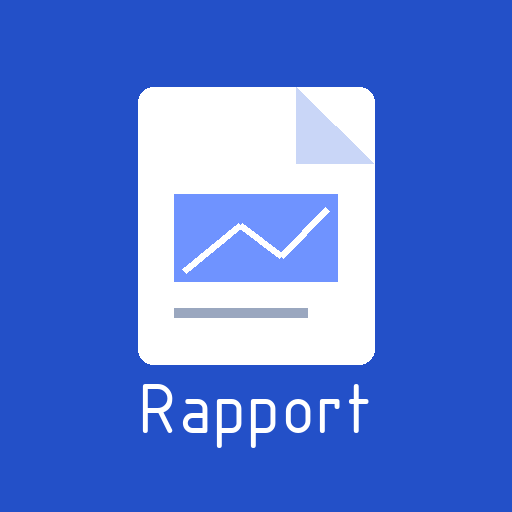
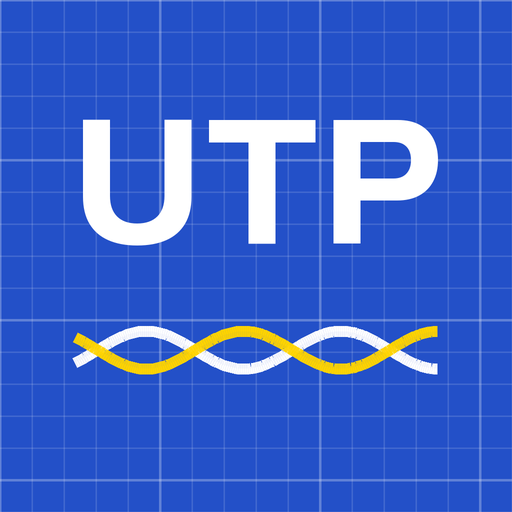
v18 : nouveau nom UTP – Useful Tools Pack et accueil en onglets
- Nom de l'app : UTP (Useful Tools Pack), nouvelle icône et logo
- Accueil en onglets « Rapports » / « Plans quadrillés » avec compteurs
- Recherche dans les plans quadrillés, dernier onglet mémorisé
- README mis à jour

Claude-Session: https://claude.ai/code/session_01TLJQrEXy8WSUsikJibTLZG

diff --git a/index.html b/index.html
@@ -1,11 +1,11 @@
 <meta charset="utf-8">
 <meta name="viewport" content="width=device-width, initial-scale=1, viewport-fit=cover">
-<title>Rapport technique</title>
+<title>UTP – Useful Tools Pack</title>
 <meta name="claude:viewport-fit-sides" content="cover">
 <meta name="apple-mobile-web-app-capable" content="yes">
 <meta name="mobile-web-app-capable" content="yes">
 <meta name="apple-mobile-web-app-status-bar-style" content="default">
-<meta name="apple-mobile-web-app-title" content="Rapport technique">
+<meta name="apple-mobile-web-app-title" content="UTP">
 <meta name="theme-color" content="#2350c8">
 <link rel="manifest" href="manifest.webmanifest">
 <link rel="apple-touch-icon" href="icon-180.png">
@@ -49,6 +49,8 @@ button{cursor:pointer}
 .bar{position:sticky;top:env(safe-area-inset-top,0px);z-index:5;background:var(--surface);border-bottom:1px solid var(--line)}
 .bar-in,.wrap{padding-left:max(16px,env(safe-area-inset-left,0px));padding-right:max(16px,env(safe-area-inset-right,0px))}
 .bar-in{display:flex;align-items:center;gap:10px;padding-block:10px;max-width:1180px;margin:0 auto;flex-wrap:wrap}
+.brand-w{display:flex;align-items:center;gap:12px;min-width:0;flex:1}
+.logo{width:42px;height:42px;flex:none;display:block}
 .brand{display:flex;flex-direction:column;min-width:0;flex:1}
 .brand b{font-family:var(--f-display);font-weight:700;font-size:23px;line-height:1.05;letter-spacing:-.015em}
 .brand span{font-family:var(--f-mono);font-size:11px;color:var(--muted);letter-spacing:.06em;text-transform:uppercase;margin-top:3px}
@@ -241,7 +243,11 @@ a.btn{color:var(--ink)}
 #qTools{flex-wrap:nowrap}
 .qval{font-family:var(--f-mono);font-size:14px;min-width:30px;text-align:center}
 .ed-opts .qn{min-width:38px;font-size:18px;padding:0 8px}
-.qsec{margin-top:34px}
+.tabs{display:flex;gap:4px;padding:4px;background:var(--soft);border-radius:12px;width:max-content;max-width:100%;overflow-x:auto;margin-bottom:-8px}
+.tabs button{display:flex;align-items:center;gap:8px;min-height:44px;padding:0 18px;border:0;border-radius:9px;background:transparent;color:var(--muted);font-family:var(--f-display);font-weight:600;font-size:16px;white-space:nowrap}
+.tabs button[aria-selected="true"]{background:var(--surface);color:var(--ink);box-shadow:0 1px 3px rgba(0,0,0,.12)}
+.tabs .cnt{font-family:var(--f-mono);font-size:12px;font-weight:500;min-width:22px;padding:1px 7px;border-radius:20px;background:var(--line);color:var(--ink)}
+.tabs .cnt:empty{display:none}
 .dlg-in{width:100%;margin-top:6px;font:inherit;font-size:16px;padding:10px 12px;border:1px solid var(--line);border-radius:10px;box-sizing:border-box}
 #cv{touch-action:none;display:block;box-shadow:0 0 0 1px var(--ed-line);background:#000}
 .tbox{position:absolute;z-index:3;display:flex;flex-direction:column;gap:6px;background:var(--ed-panel);border:1px solid var(--ed-line);border-radius:10px;padding:8px;box-shadow:0 8px 24px rgba(0,0,0,.5);width:min(340px,80vw)}
@@ -282,7 +288,7 @@ input[type=search]{width:100%;min-height:44px;border:1px solid var(--line);borde
 </style>
 
 <header class="bar"><div class="bar-in">
-  <div class="brand"><b>Rapport technique</b><span>IT-FCS-DO · Project Drawing</span></div>
+  <div class="brand-w"><svg class="logo" viewBox="0 0 40 40" aria-hidden="true"><rect width="40" height="40" rx="9" fill="#2350c8"/><path d="M0 10h40M0 20h40M0 30h40M10 0v40M20 0v40M30 0v40" stroke="#fff" stroke-opacity=".18" stroke-width="1"/><path d="M6.0 20.0 L6.5 21.1 L7.0 22.2 L7.5 23.1 L8.0 23.9 L8.5 24.5 L9.0 24.9 L9.5 25.0 L10.0 24.9 L10.5 24.5 L11.0 23.9 L11.5 23.1 L12.0 22.2 L12.5 21.1 L13.0 20.0 L13.5 18.9 L14.0 17.8 L14.5 16.9 L15.0 16.1 L15.5 15.5 L16.0 15.1 L16.5 15.0 L17.0 15.1 L17.5 15.5 L18.0 16.1 L18.5 16.9 L19.0 17.8 L19.5 18.9 L20.0 20.0 L20.5 21.1 L21.0 22.2 L21.5 23.1 L22.0 23.9 L22.5 24.5 L23.0 24.9 L23.5 25.0 L24.0 24.9 L24.5 24.5 L25.0 23.9 L25.5 23.1 L26.0 22.2 L26.5 21.1 L27.0 20.0 L27.5 18.9 L28.0 17.8 L28.5 16.9 L29.0 16.1 L29.5 15.5 L30.0 15.1 L30.5 15.0 L31.0 15.1 L31.5 15.5 L32.0 16.1 L32.5 16.9 L33.0 17.8 L33.5 18.9 L34.0 20.0" fill="none" stroke="#fff" stroke-width="3" stroke-linecap="round" stroke-linejoin="round"/><path d="M6.0 20.0 L6.5 18.9 L7.0 17.8 L7.5 16.9 L8.0 16.1 L8.5 15.5 L9.0 15.1 L9.5 15.0 L10.0 15.1 L10.5 15.5 L11.0 16.1 L11.5 16.9 L12.0 17.8 L12.5 18.9 L13.0 20.0 L13.5 21.1 L14.0 22.2 L14.5 23.1 L15.0 23.9 L15.5 24.5 L16.0 24.9 L16.5 25.0 L17.0 24.9 L17.5 24.5 L18.0 23.9 L18.5 23.1 L19.0 22.2 L19.5 21.1 L20.0 20.0 L20.5 18.9 L21.0 17.8 L21.5 16.9 L22.0 16.1 L22.5 15.5 L23.0 15.1 L23.5 15.0 L24.0 15.1 L24.5 15.5 L25.0 16.1 L25.5 16.9 L26.0 17.8 L26.5 18.9 L27.0 20.0 L27.5 21.1 L28.0 22.2 L28.5 23.1 L29.0 23.9 L29.5 24.5 L30.0 24.9 L30.5 25.0 L31.0 24.9 L31.5 24.5 L32.0 23.9 L32.5 23.1 L33.0 22.2 L33.5 21.1 L34.0 20.0" fill="none" stroke="#ffd400" stroke-width="3" stroke-linecap="round" stroke-linejoin="round"/></svg><div class="brand"><b>UTP</b><span>Useful Tools Pack · IT-FCS-DO</span></div></div>
   <button class="btn rep-only" id="backBtn" type="button" hidden>
     <svg viewBox="0 0 24 24" fill="none" stroke="currentColor" stroke-width="2" stroke-linecap="round" stroke-linejoin="round"><path d="m15 18-6-6 6-6"/></svg>
     <span>Mes rapports</span>
@@ -306,7 +312,11 @@ input[type=search]{width:100%;min-height:44px;border:1px solid var(--line);borde
 </div></header>
 
 <main class="wrap" id="home">
-  <section>
+  <div class="tabs" role="tablist" aria-label="Outils">
+    <button type="button" role="tab" data-tab="rep">Rapports<span class="cnt" id="cntRep"></span></button>
+    <button type="button" role="tab" data-tab="plan">Plans quadrillés<span class="cnt" id="cntPlan"></span></button>
+  </div>
+  <section id="tabRep">
     <div class="sec-h">
       <div><h2>Mes rapports</h2><p class="sub" id="storeInfo">Enregistrés sur cet appareil.</p></div>
       <div class="home-acts">
@@ -322,7 +332,7 @@ input[type=search]{width:100%;min-height:44px;border:1px solid var(--line);borde
     <div class="rep-list" id="repList"></div>
     <p class="empty" id="repEmpty" hidden>Aucun rapport pour l'instant. Crée ton premier rapport ou importe un fichier .rapport.</p>
   </section>
-  <section class="qsec">
+  <section id="tabPlan" hidden>
     <div class="sec-h">
       <div><h2>Plans quadrillés</h2></div>
       <div class="home-acts">
@@ -330,6 +340,7 @@ input[type=search]{width:100%;min-height:44px;border:1px solid var(--line);borde
         <input type="file" id="qIn" class="hidden-in" accept="application/pdf,image/*">
       </div>
     </div>
+    <input type="search" id="qq" placeholder="Rechercher un plan" aria-label="Rechercher un plan" style="margin-bottom:14px">
     <div class="rep-list" id="qList"></div>
     <p class="empty" id="qEmpty" hidden>Aucun plan quadrillé pour l'instant.</p>
   </section>
@@ -1264,7 +1275,7 @@ async function makeThumb(r){const p=firstImg(r);if(!p)return null;try{return awa
 async function renderHome(){
   const q=$('q').value.trim().toLowerCase();const list=$('repList');list.innerHTML='';
   const items=INDEX.slice().sort((a,b)=>(b.updated||0)-(a.updated||0)).filter(m=>!q||(m.titre+' '+m.bat).toLowerCase().includes(q));
-  $('repEmpty').hidden=INDEX.length>0;
+  $('repEmpty').hidden=INDEX.length>0;$('cntRep').textContent=INDEX.length||'';
   items.forEach(m=>{const el=document.createElement('article');el.className='rep';
     const st=!m.exported?['no','Jamais exporté']:(m.updated>m.exported+1500?['warn','Modifié depuis l\'export du '+fmtStamp(m.exported)]:['ok','Exporté le '+fmtStamp(m.exported)]);
     el.innerHTML='<button class="rep-th" type="button" aria-label="Ouvrir">'+(m.thumb?'<img alt="">':'<span>Pas d\'image</span>')+'</button>'+
@@ -1620,8 +1631,8 @@ $('qPdf').onclick=async()=>{if(!qReady())return;if(!window.jspdf){toast("Le modu
   $('qPdf').disabled=true;try{const doc=await qBuildPdf();await qSave(true);await saveFile(doc.output('blob'),(safeName(Q.name)||'Plan')+'_quadrille.pdf','application/pdf')}
   catch(e){console.error(e);toast('La génération du PDF a échoué.',5000)}finally{$('qPdf').disabled=false}};
 /* liste sur l'accueil */
-async function renderQList(){const list=$('qList');if(!list)return;list.innerHTML='';
-  QI.slice().sort((a,b)=>(b.updated||0)-(a.updated||0)).forEach(m=>{const el=document.createElement('article');el.className='rep';
+async function renderQList(){const list=$('qList');if(!list)return;list.innerHTML='';$('cntPlan').textContent=QI.length||'';const qs=$('qq').value.trim().toLowerCase();
+  QI.filter(m=>!qs||(m.name||'').toLowerCase().includes(qs)).slice().sort((a,b)=>(b.updated||0)-(a.updated||0)).forEach(m=>{const el=document.createElement('article');el.className='rep';
     el.innerHTML='<button class="rep-th" type="button" aria-label="Ouvrir">'+(m.thumb?'<img alt="">':'<span>Pas d\'image</span>')+'</button><div class="rep-b"><b></b><span class="meta"></span><span class="meta"></span></div>'+
       '<div class="rep-a"><button class="btn sm primary op1" type="button">Ouvrir</button><button class="btn sm danger del" type="button">'+IC.del+'</button></div>';
     if(m.thumb)el.querySelector('img').src=m.thumb;el.querySelector('b').textContent=m.name||'Plan sans nom';
@@ -1631,6 +1642,10 @@ async function renderQList(){const list=$('qList');if(!list)return;list.innerHTM
     list.appendChild(el)});
   $('qEmpty').hidden=QI.length>0}
 (async()=>{QI=(await idbGet('qindex'))||[];renderQList()})();
+$('qq').oninput=renderQList;
+function setTab(t){document.querySelectorAll('.tabs [data-tab]').forEach(b=>b.setAttribute('aria-selected',b.dataset.tab===t));$('tabRep').hidden=t!=='rep';$('tabPlan').hidden=t!=='plan';try{localStorage.setItem('rp-tab',t)}catch(e){}}
+document.querySelectorAll('.tabs [data-tab]').forEach(b=>b.onclick=()=>setTab(b.dataset.tab));
+setTab((()=>{try{return localStorage.getItem('rp-tab')}catch(e){return null}})()==='plan'?'plan':'rep');
 /* ================= Hors ligne (service worker) ================= */
 if('serviceWorker' in navigator&&/^https?:$/.test(location.protocol)){
   navigator.serviceWorker.register('sw.js').then(reg=>{

diff --git a/sw.js b/sw.js
@@ -1,5 +1,5 @@
 // Rapport photo : cache hors ligne. Changer VERSION à chaque mise à jour de index.html.
-const VERSION='17';
+const VERSION='18';
 const CACHE='rapport-photo-'+VERSION;
 const FILES=['./','./index.html','./manifest.webmanifest','./jspdf.umd.min.js','./pdf.min.js','./pdf.worker.min.js','./icon-180.png','./icon-192.png','./icon-512.png','./fonts/archivo-latin-500-normal.woff2','./fonts/archivo-latin-600-normal.woff2','./fonts/archivo-latin-700-normal.woff2','./fonts/source-sans-3-latin-400-normal.woff2','./fonts/source-sans-3-latin-600-normal.woff2','./fonts/ibm-plex-mono-latin-500-normal.woff2'];
 self.addEventListener('install',e=>{e.waitUntil(caches.open(CACHE).then(c=>c.addAll(FILES.map(u=>new Request(u,{cache:'reload'})))))});

diff --git a/README.md b/README.md
@@ -1,6 +1,10 @@
-# Rapport technique
+# UTP – Useful Tools Pack
 
-Application web pour iPad qui sert à produire sur le terrain des **rapports photo annotés en PDF** : A4 paysage, police ISOCPEUR, cadre, légende et cartouche CERN IT-FCS-DO.
+Boîte à outils web pour iPad, pour le terrain (câblage et télécom, CERN IT-FCS-DO) :
+- **Rapports** : rapports photo annotés en PDF (A4 paysage, police ISOCPEUR, cadre, légende et cartouche IT-FCS-DO).
+- **Plans quadrillés** : quadrillage d'un plan d'étage à partir d'une unité de grille, avec textes et mesures, en PDF A4.
+
+L'accueil est organisé en onglets : « Rapports » et « Plans quadrillés ».
 
 **Ouvrir l'app :** https://cacolax.github.io/Rapport.io/
 
@@ -32,6 +36,15 @@ Application web pour iPad qui sert à produire sur le terrain des **rapports pho
 - Aperçu avant génération.
 - « Modifier le PDF » : annotation directe des pages générées, avec les mêmes outils.
 - Nom du fichier : `B<bâtiment>_Rapport_technique_v<version>`.
+
+**Plans quadrillés**
+- Import d'un plan PDF (1re page) ou image, par exemple une capture de la Planothèque.
+- Unité de grille : 2 points sur le plan + la longueur en cm (ex. une porte = 70 cm).
+- Origine, fin de l'axe Y (vertical, ou « Axe libre » pour un plan penché), puis extension en X en direct.
+- Réglages : colonnes, lignes, ajustement fin de la case, dépassement des lignes (aucun, ½ ou 1 case).
+- Texte ISOCPEUR (couleur, taille en pt) pour un titre ou des repères.
+- Mesure en polyligne avec le total en m ou cm, affichable ou non dans le PDF.
+- PDF A4 (orientation automatique) : grille vectorielle bleue, numérotation, débord d'une case, plan penché remis droit.
 
 **Hors ligne**
 - Installable sur l'écran d'accueil de l'iPad. Une fois chargée, l'app fonctionne sans réseau.
